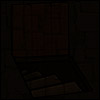
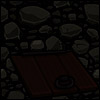
lot of stuff, i forgot what exactly

diff --git a/src/models/cpp/gamelogicmodel.cpp b/src/models/cpp/gamelogicmodel.cpp
@@ -1,16 +1,21 @@
 #include "gamelogicmodel.h"
 #include <QDebug>
+#include "endblock.h"
 
 GameLogicModel::GameLogicModel(QObject *parent,const Map& map,const Player& player)
     : QObject(parent)
+    , started(false)
+    , gameTime(0,0,0,0)
     , activeMap(map)
     , lightFiller(this,activeMap,2)
     , player(player)
     , playerCoords(activeMap.getInitialCoords())
     , playerDirection(activeMap.getInitialDirection())
 {
-    placePlayer(playerCoords,playerCoords);
-    lightFiller.lightFill(playerCoords,AbstractGameBlock::LightLevel::UNLIT,AbstractGameBlock::LightLevel::LIT);
+    connectBlockEvents();
+
+    lightFiller.lightFill(playerCoords,AbstractGameBlock::LightLevel::UNLIT,
+                                       AbstractGameBlock::LightLevel::LIT);
 }
 
 const Player &GameLogicModel::getPlayer() const
@@ -50,11 +55,34 @@ void GameLogicModel::movePlayer(const Map::Direction& direction)
             qDebug() << "Unhandled Direction in movePlayer() in gamelogicmodel.cpp";
             break;
     }
+
+    if(!started && success)
+    {
+        started = true;
+        startGame();
+    }
 }
 
-QPoint GameLogicModel::getPlayerCoords() const
+void GameLogicModel::onPlayerEntered()
 {
-    return playerCoords;
+    //If entered block is endblock, game ends
+    if(qobject_cast<EndBlock*>(sender()) != nullptr)
+        endGame();
+}
+
+void GameLogicModel::onPlayerExited()
+{}
+
+void GameLogicModel::startGame()
+{
+    started = true;
+    connect(&gameTimer,&QTimer::timeout,this,[=](){
+        gameTime = gameTime.addSecs(1);
+        emit timeTicked(gameTime);
+    });
+
+    gameTimer.setInterval(1000);
+    gameTimer.start();
 }
 
 bool GameLogicModel::placePlayer(const QPoint& newPos, const QPoint& oldPos)
@@ -75,4 +103,21 @@ bool GameLogicModel::placePlayer(const QPoint& newPos, const QPoint& oldPos)
         }
     }
     return false; //Position unchanged
+}
+
+void GameLogicModel::connectBlockEvents()
+{
+    for(int row = 0; row < activeMap.getSize(); ++row)
+        for(int col = 0; col < activeMap.getSize(); ++col)
+        {
+            connect(activeMap.getGameBlock(row,col),&AbstractGameBlock::playerEntered,
+                                               this,&GameLogicModel::onPlayerEntered);
+        }
+}
+
+void GameLogicModel::endGame()
+{
+    gameTimer.stop();
+    qDebug() << "Game ended!";
+    emit gameEnded(gameTime);
 }

diff --git a/src/persistence/implementation/cpp/playerdataaccessimpl.cpp b/src/persistence/implementation/cpp/playerdataaccessimpl.cpp
@@ -60,13 +60,29 @@ bool PlayerDataAccessImpl::loadPlayers(QVector<Player*>& target) const
 QStringList PlayerDataAccessImpl::loadAvailablePortraits(QVector<QPixmap>& target) const
 {
     QStringList portraitPaths;
+    loadPortraitsFromFolder(target,PLAYERPORTRAIT_FOLDER);
+    loadPortraitsFromFolder(target,INBUILDS_PORTRAITS);
     return portraitPaths;
 }
 
-void PlayerDataAccessImpl::loadDefaultPlayer(QVector<Player*>& target) const
+bool PlayerDataAccessImpl::loadDefaultPlayer(QVector<Player*>& target) const
 {
-    //Adding a default player
-    // TODO check nullptr decide who's owner
     Player* defaultPlayer = new Player(nullptr,DEFAULT_PLAYER_PORTRAIT,DEFAULT_PLAYER_NAME);
     target.push_back(defaultPlayer);
+
+    return defaultPlayer != nullptr;
+}
+
+bool PlayerDataAccessImpl::loadPortraitsFromFolder(QVector<QPixmap>& target, const QString& folder) const
+{
+    QDir playerPortraitDir(folder);
+    if(!playerPortraitDir.exists()){ qDebug() << "Player portrait dir not found!"; return false; }
+
+    QStringList playerPortraits = playerPortraitDir.entryList(QStringList() << "*.png",QDir::Files);
+    foreach(const auto& filename,playerPortraits)
+    {
+        qDebug() << "Found PlayerPortrait: "<< filename;
+        target.push_back(playerPortraitDir.filePath(filename));
+    }
+    return playerPortraits.size() > 0;
 }

diff --git a/src/models/header/gamelogicmodel.h b/src/models/header/gamelogicmodel.h
@@ -3,6 +3,7 @@
 
 #include <QObject>
 #include <QTime>
+#include <QTimer>
 
 #include "player.h"
 #include "map.h"
@@ -18,30 +19,36 @@ public:
     explicit GameLogicModel(QObject *parent,const Map& map,const Player& player);
 
 public:
+    //Getters
     const Player& getPlayer() const;
     const Map &getActiveMap() const;
-    QPoint getPlayerCoords() const;
 
 signals:
     void moved();
+    void timeTicked(const QTime& time);
+    void gameEnded (const QTime& time);
 
 public slots:
+    void startGame();
     void movePlayer(const Map::Direction& direction);
+    void onPlayerEntered();
+    void onPlayerExited();
 
 private:
 //FIELDS
+    //Game
+    bool   started;
+    QTimer gameTimer;
+    QTime  gameTime;
 
     //Map
     const Map& activeMap; // MIGHT NEED POINTER
     LightFiller lightFiller;
+
     //Player
     const Player& player;
     QPoint playerCoords;
     Map::Direction playerDirection;
-
-    //Game
-    bool started;
-    QTime gameTime;
 
 //METHODS
 
@@ -49,7 +56,8 @@ private:
     bool placePlayer(const QPoint& newPos, const QPoint& oldPos);
 
     //Game
-    void StartGame();
+    void connectBlockEvents();
+    void endGame();
 
 };
 

diff --git a/src/models/cpp/startblock.cpp b/src/models/cpp/startblock.cpp
@@ -11,14 +11,25 @@ StartBlock::~StartBlock(){}
 
 void StartBlock::PopulateTextures()
 {
-    textures[LightLevel::UNLIT]    = ":/resources/img/blocks/wall_unlit.jpg";
+    textures[LightLevel::UNLIT]    = ":/resources/img/blocks/trapdoor_unlit.jpg";
     textures[LightLevel::LIT]      = ":/resources/img/blocks/trapdoor_lit.jpg";
     textures[LightLevel::HALF_LIT] = ":/resources/img/blocks/trapdoor_half_lit.png";
 }
 
 void StartBlock::DoPlayerExit(const Player& player)
 {
+    // Closing Trapdoor
+    closeTrapdoor();
+    emit updateTextures();
+
+    //Exiting
     RoadBlock::DoPlayerExit(player);
-    emit startLeft();
     qDebug() << "Start block left...";
+}
+
+void StartBlock::closeTrapdoor()
+{
+    textures[LightLevel::UNLIT]    = ":/resources/img/blocks/trapdoor_unlit.jpg";
+    textures[LightLevel::LIT]      = ":/resources/img/blocks/trapdoor_closed_lit.jpg";
+    textures[LightLevel::HALF_LIT] = ":/resources/img/blocks/trapdoor_closed_half_lit.jpg";
 }

diff --git a/src/views/cpp/gamefieldui.cpp b/src/views/cpp/gamefieldui.cpp
@@ -16,10 +16,14 @@ GameFieldUI::GameFieldUI(QWidget *parent, GameLogicModel* game) :
     ui->playerNameLabel->setText(game->getPlayer().getPlayerName());
     ui->mapNameLabel->setText(game->getActiveMap().getMapName());
 
+    // CONNECT GAME TIMER TICK TO UI
+    connect(game,&GameLogicModel::timeTicked,this,[=](const QTime& time){
+        ui->timeLabel->setText(time.toString("mm:ss"));
+    });
+
     loadBlockField();
 
     // CONNECT UI EVENTS TO GAME LOGIC
-    connect(this,SIGNAL(UIReady()),game,SLOT(onUIReady()));
     connect(ui->navUp,&QPushButton::clicked,[=](){ game->movePlayer(Map::Direction::UP);});
     connect(ui->navDown,&QPushButton::clicked,[=](){ game->movePlayer(Map::Direction::DOWN);});
     connect(ui->navLeft,&QPushButton::clicked,[=](){ game->movePlayer(Map::Direction::LEFT);});

diff --git a/src/persistence/implementation/header/playerdataaccessimpl.h b/src/persistence/implementation/header/playerdataaccessimpl.h
@@ -4,6 +4,7 @@
 //TODO load resources from resource virtual folder
 #define PLAYERDATA_FOLDER "./Players/PlayerData/"
 #define PLAYERPORTRAIT_FOLDER "./Players/Portraits/"
+#define INBUILDS_PORTRAITS ":/resources/img/player/"
 #define DEFAULT_PLAYER_NAME "Játékos"
 #define DEFAULT_PLAYER_PORTRAIT ":/resources/img/player/amonguscyan.png"
 
@@ -23,7 +24,8 @@ public:
     QStringList loadAvailablePortraits(QVector<QPixmap>& target) const override;
 
 private:
-    void loadDefaultPlayer(QVector<Player*>& target) const;
+    bool loadDefaultPlayer(QVector<Player*>& target) const;
+    bool loadPortraitsFromFolder(QVector<QPixmap>& target, const QString& folder) const;
 };
 
 #endif // PLAYERDATAACCESSIMPL_H

diff --git a/src/views/cpp/charactercreation.cpp b/src/views/cpp/charactercreation.cpp
@@ -4,15 +4,15 @@
 #include <QDebug>
 #include <QStyleOption>
 #include <QPainter>
-#include "playerdataaccessimpl.h"
 
-CharacterCreation::CharacterCreation(QWidget *parent)
+CharacterCreation::CharacterCreation(QWidget *parent, IPlayerDataAccess* playerDataAccess)
     : QDialog(parent)
     , ui(new Ui::char_create_widget)
+    , playerDataAccess(playerDataAccess)
 {
     ui->setupUi(this);
-    QScopedPointer<IPlayerDataAccess> pDataAccess(new PlayerDataAccessImpl());
-
+    playerDataAccess->loadAvailablePortraits(playerPortraits);
+    ui->portrait->setPixmap(playerPortraits[0]);
 
     connect(ui->cancelBtn,&QPushButton::clicked,this,&QWidget::close);
     qDebug() << "Character creation opened";

diff --git a/src/views/header/charactercreation.h b/src/views/header/charactercreation.h
@@ -4,6 +4,7 @@
 #include <QDialog>
 #include <QPixmap>
 #include <QScopedPointer>
+#include "iplayerdataaccess.h"
 
 QT_BEGIN_NAMESPACE
 namespace Ui { class char_create_widget; }
@@ -13,17 +14,17 @@ class CharacterCreation : public QDialog
 {
     Q_OBJECT
 public:
-    explicit CharacterCreation(QWidget *parent = nullptr);
+    explicit CharacterCreation(QWidget *parent,IPlayerDataAccess* playerDataAccess);
     virtual ~CharacterCreation() override;
 
 signals:
 
 protected:
-    void paintEvent(QPaintEvent *);
+    void paintEvent(QPaintEvent *) override;
 
 private:
     Ui::char_create_widget *ui;
-
+    IPlayerDataAccess* playerDataAccess;
     QVector<QPixmap> playerPortraits;
 };
 

diff --git a/src/views/cpp/abstractgameblockwidget.cpp b/src/views/cpp/abstractgameblockwidget.cpp
@@ -20,6 +20,10 @@ AbstractGameBlockWidget::AbstractGameBlockWidget(QWidget *parent, const Abstract
     //LIGHT LEVEL CHANGED EVENT
     connect(&blockData,SIGNAL(lightLevelChanged(const AbstractGameBlock::LightLevel&)),
                   this,SLOT(onLightLevelChanged(const AbstractGameBlock::LightLevel&)));
+
+    //UPDATE TEXTURES EVENT
+    connect(&blockData,SIGNAL(updateTextures()),
+                  this,SLOT(loadTextures()));
 }
 
 

diff --git a/src/views/cpp/mainwindow.cpp b/src/views/cpp/mainwindow.cpp
@@ -24,7 +24,7 @@ MainWindow::MainWindow(QWidget *parent)
     });
     // Connect Character Creation
     connect(ui->charcreateBtn,&QPushButton::clicked,this,[=](){
-            changeWindow(new CharacterCreation(this));
+            changeWindow(new CharacterCreation(this,new PlayerDataAccessImpl()));
     });
     // Connect Load Game
     connect(ui->loadGameBtn,&QPushButton::clicked,this,[=](){

diff --git a/src/models/cpp/endblock.cpp b/src/models/cpp/endblock.cpp
@@ -15,10 +15,3 @@ void EndBlock::PopulateTextures()
     textures[LightLevel::LIT]      = ":/resources/img/blocks/exit_lit.jpg";
     textures[LightLevel::HALF_LIT] = ":/resources/img/blocks/exit_half_lit.jpg";
 }
-
-void EndBlock::DoPlayerEnter(const Player& player)
-{
-    RoadBlock::DoPlayerEnter(player);
-    emit endBlockEntered();
-    qDebug() << "WIN";
-}

diff --git a/src/views/header/abstractgameblockwidget.h b/src/views/header/abstractgameblockwidget.h
@@ -23,9 +23,9 @@ public slots:
     void onPlayerEntered(const Player& player);
     void onPlayerExited(const Player&);
     void onLightLevelChanged(const AbstractGameBlock::LightLevel& lightlevel);
+    void loadTextures();
 
 protected:
-    void loadTextures();
     void paintEvent(QPaintEvent* event) override;
 };
 
